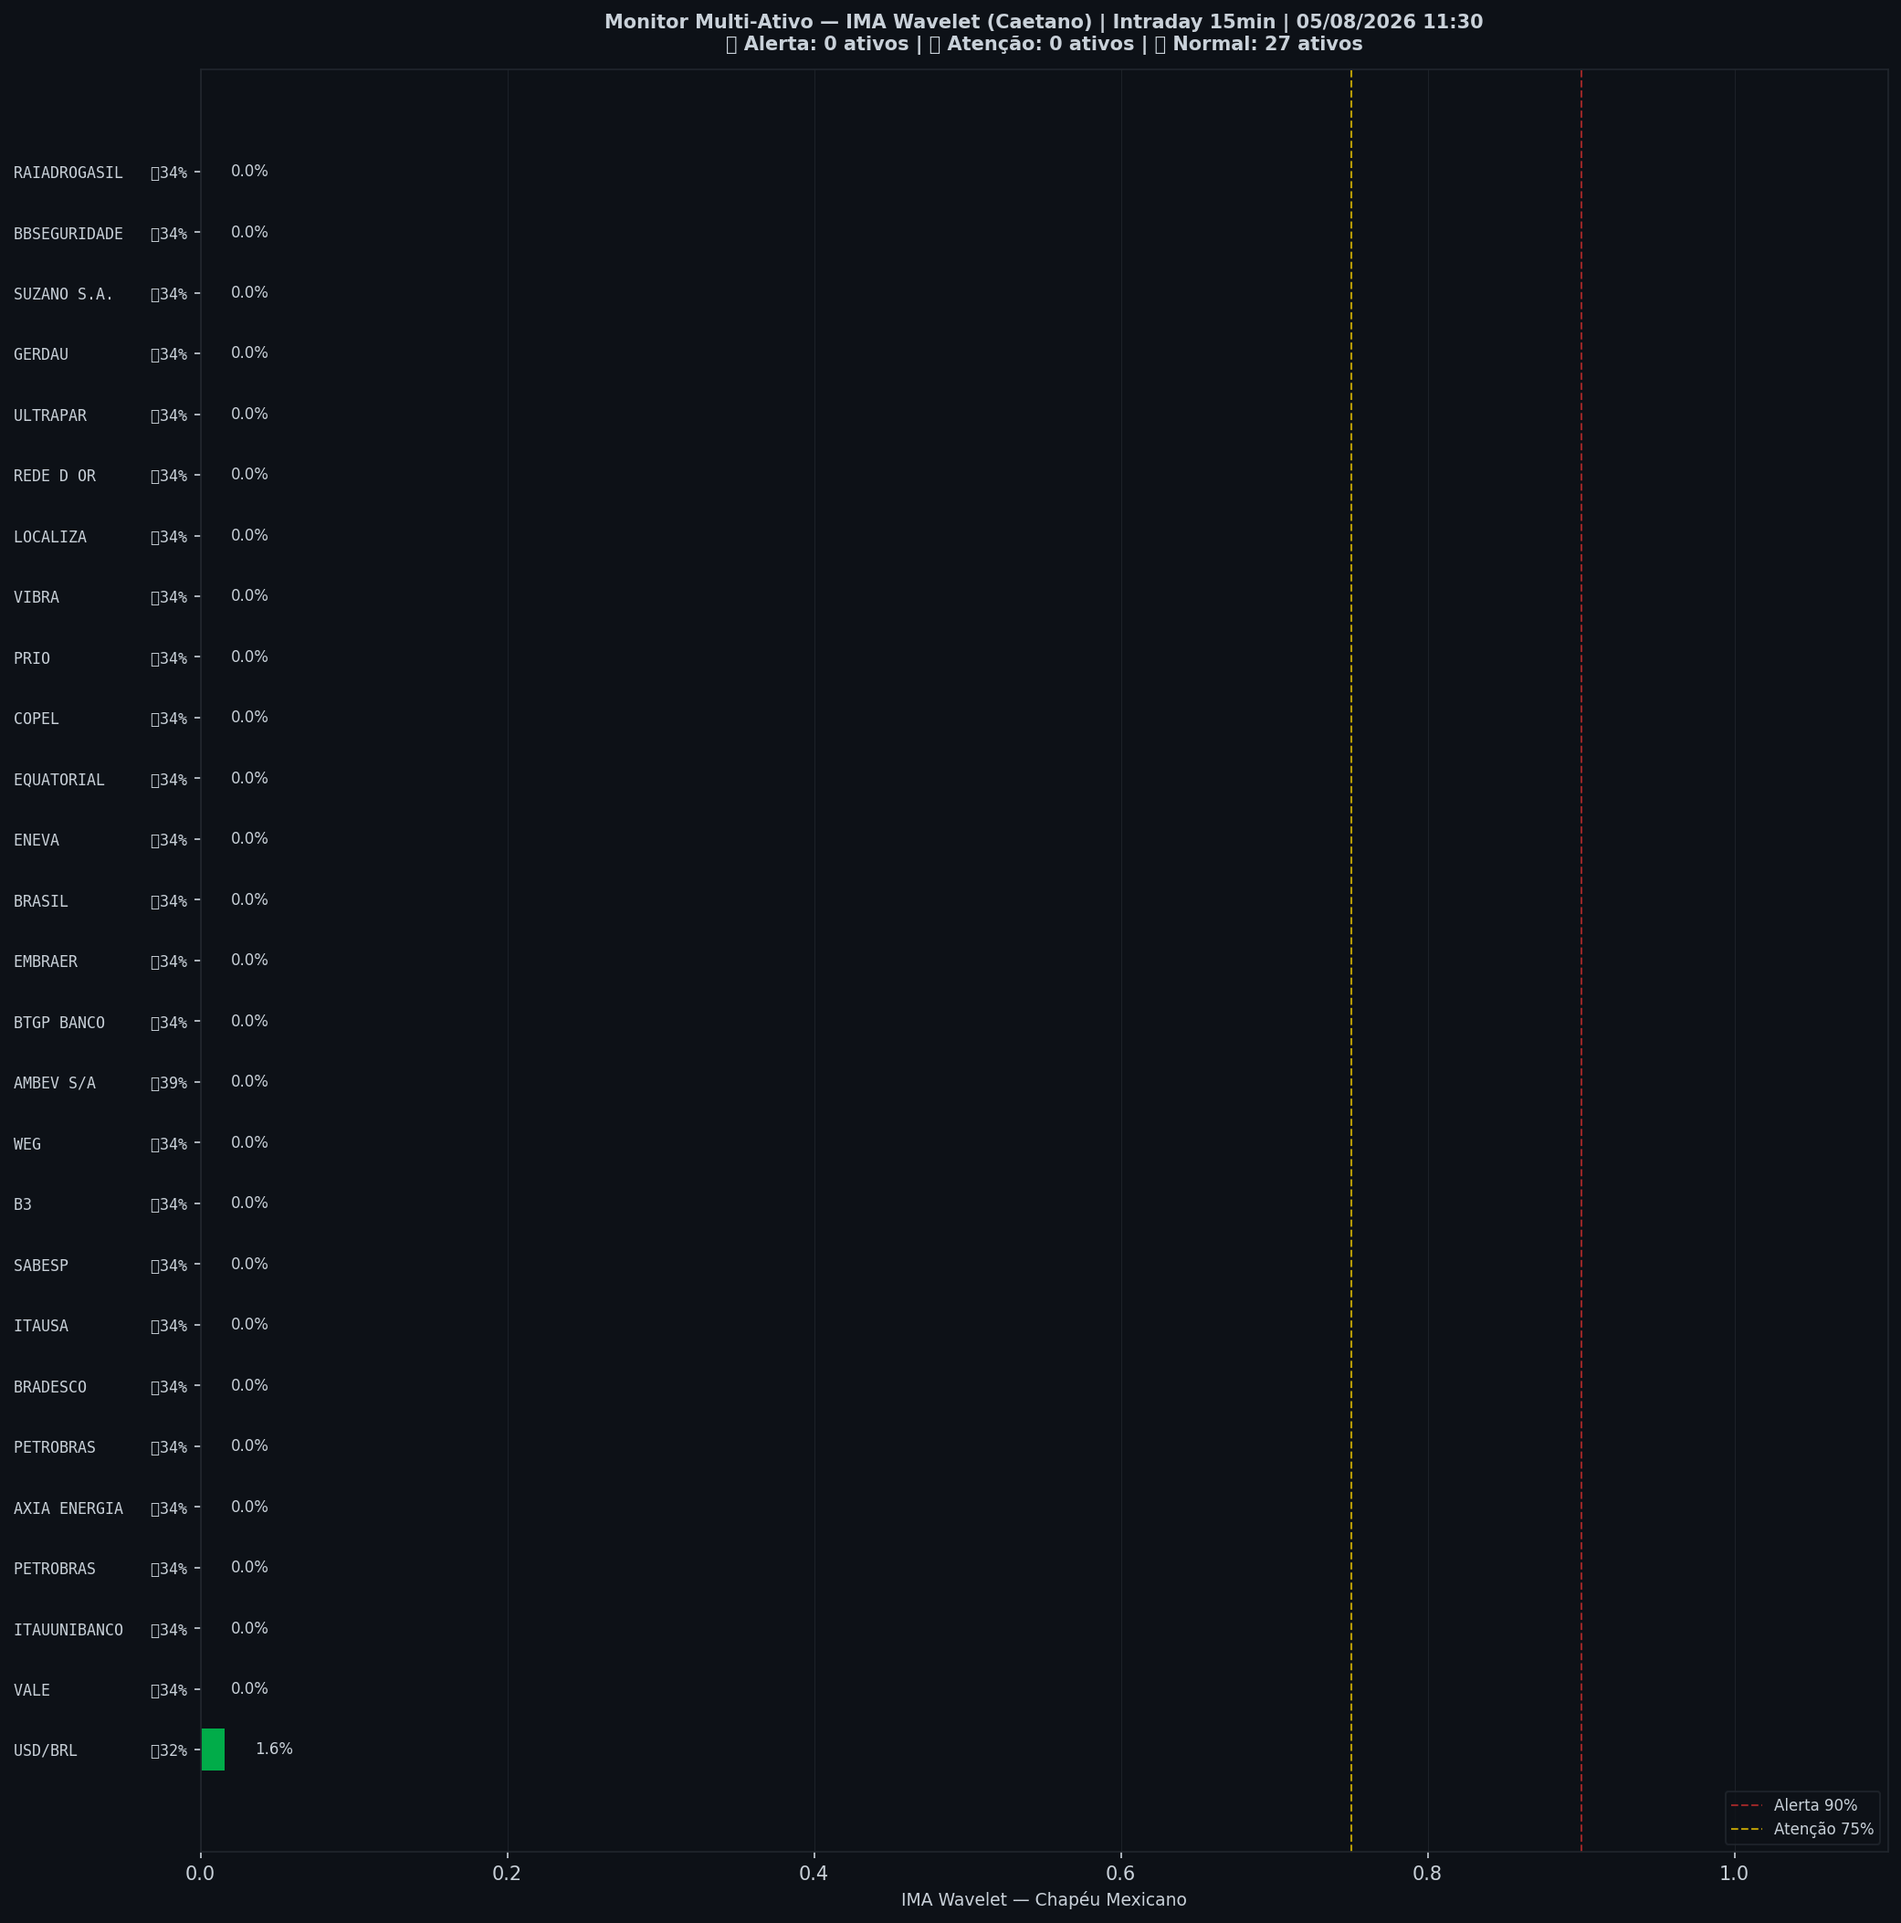
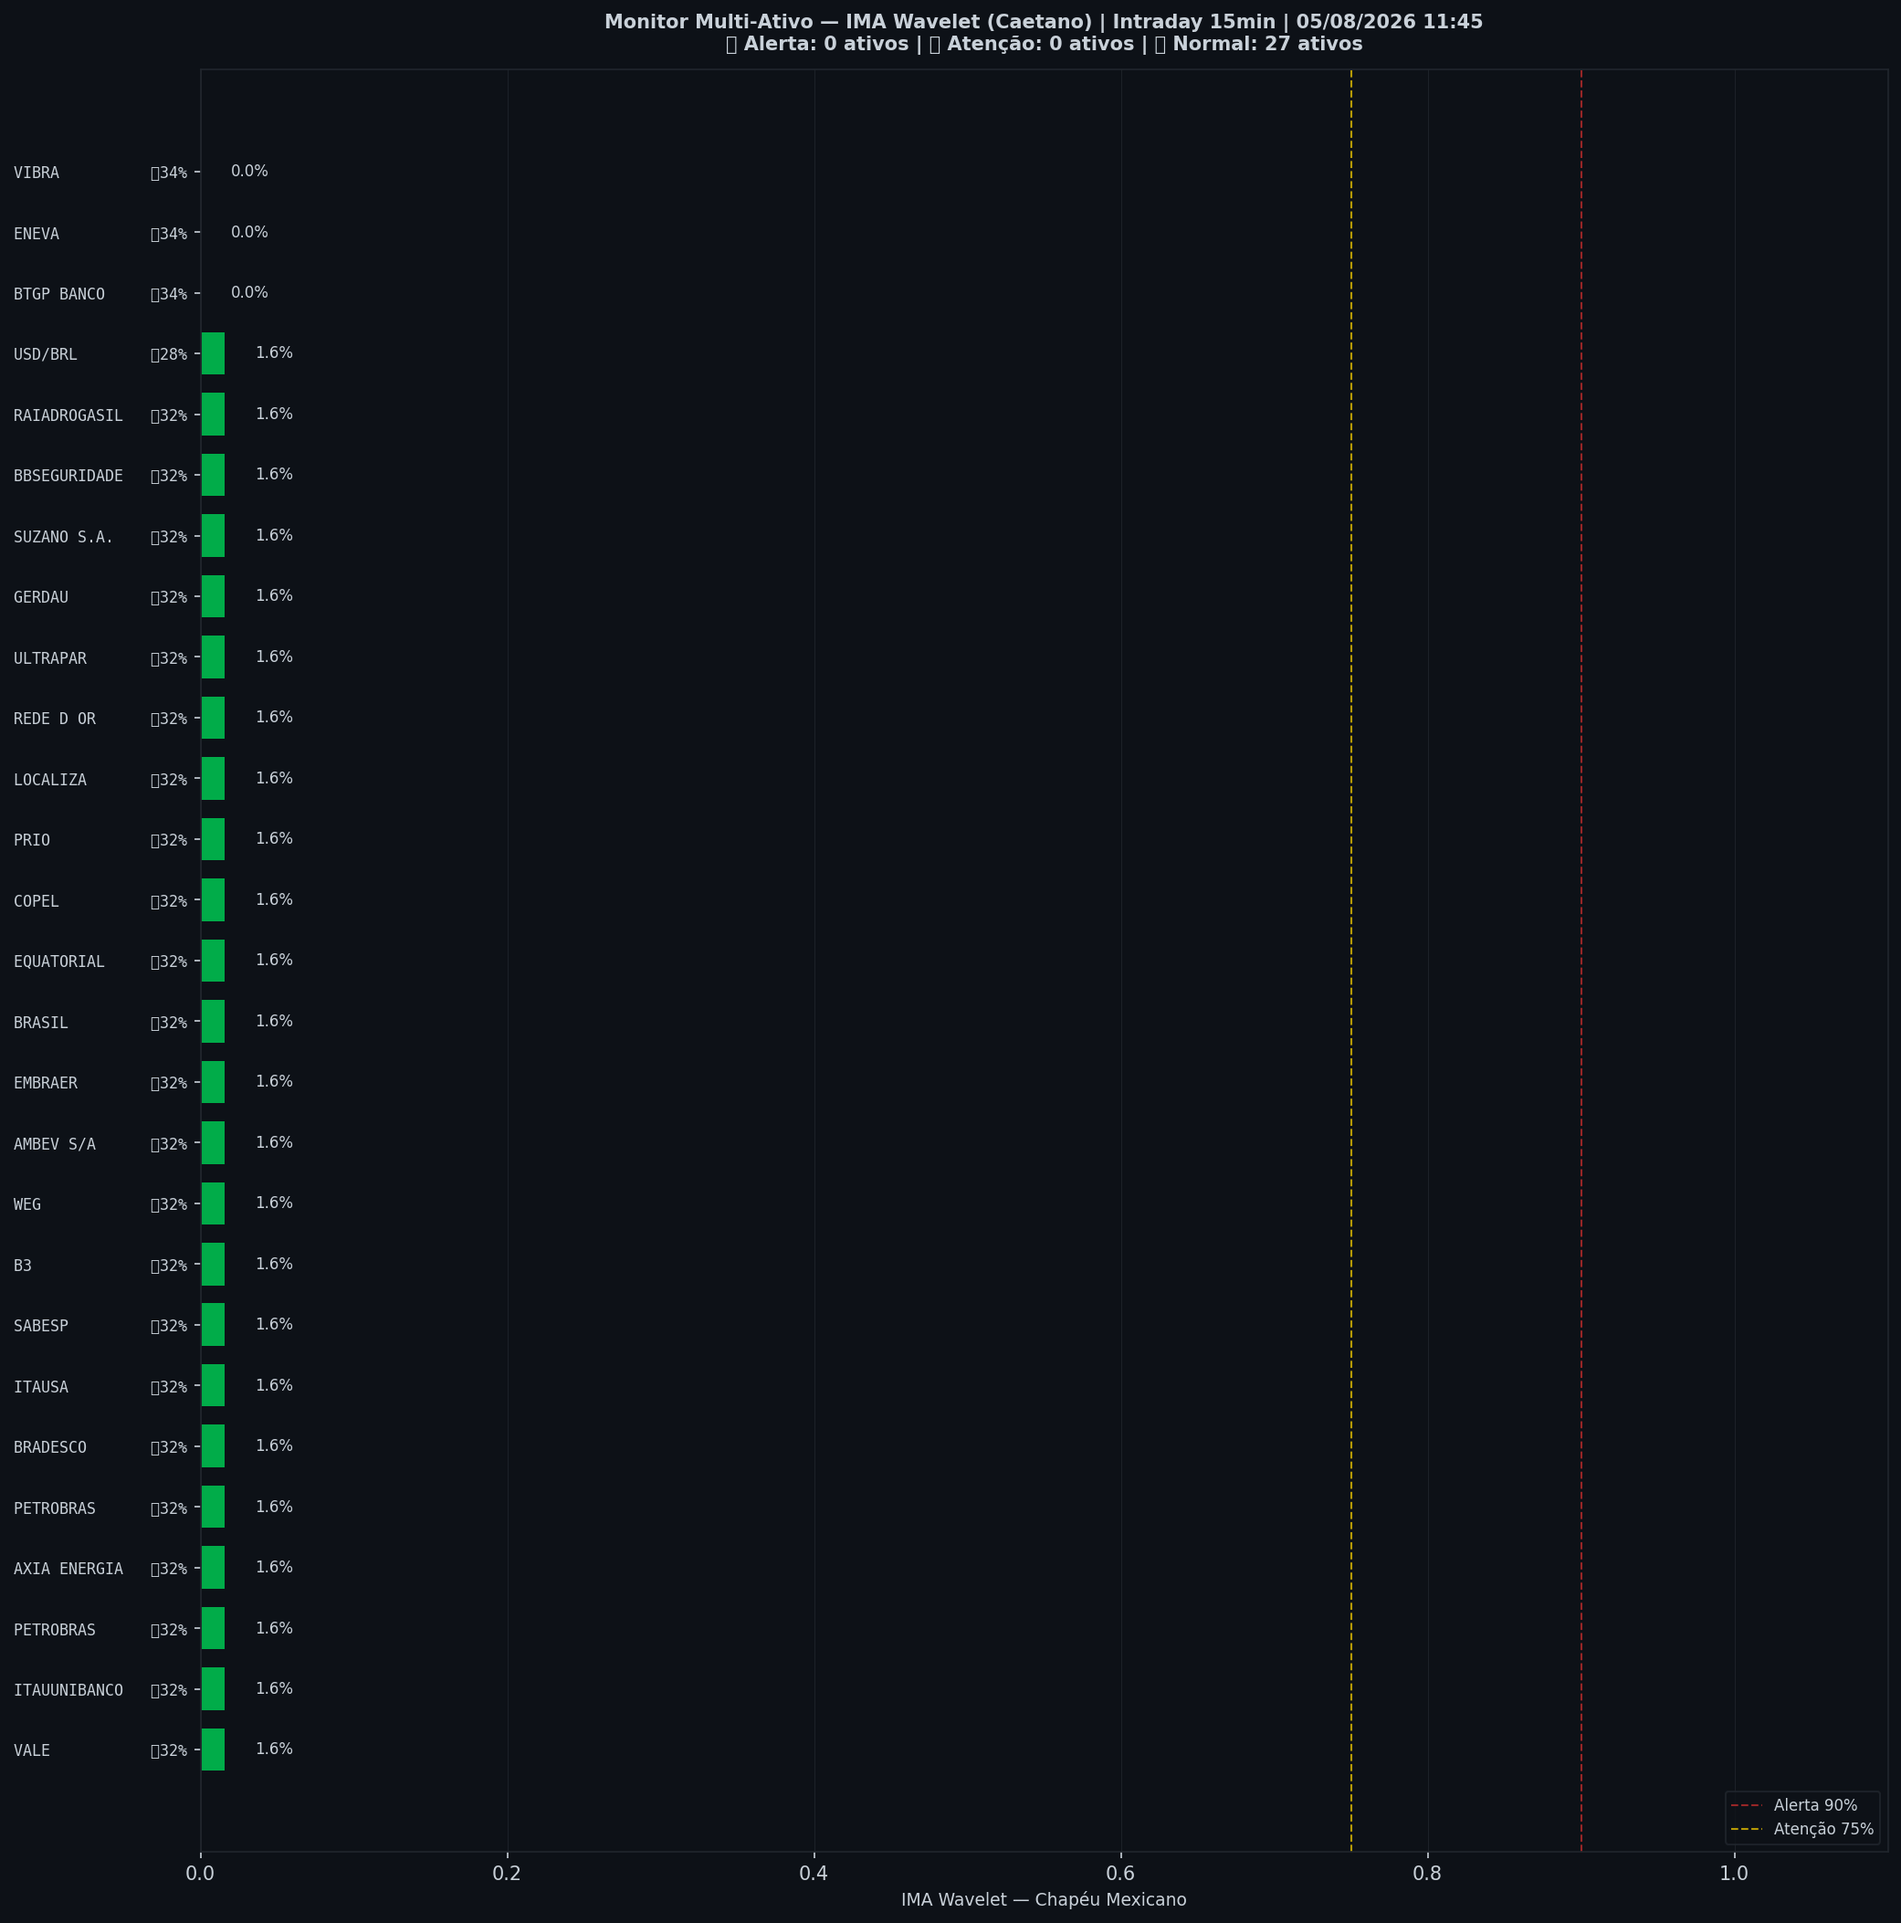
🤖 Auto: Sinal 05/08/2026 11:45

Changed region(s): [[0.0937, 0.1543, 0.1249, 0.8951], [0.0312, 0.8333, 0.0624, 0.8642]]

diff --git a/content/intraday/2026-08-05.md b/content/intraday/2026-08-05.md
@@ -1,20 +1,20 @@
 ---
-title: "🟢 Intraday 05/08/2026 10:45 BRT — VERDE"
+title: "🟢 Intraday 05/08/2026 11:00 BRT — VERDE"
 date: 2026-08-05
 tags: [intraday]
 ---
 
-> [!success] 🟢 **VERDE** — Risco 11% · ▲ +5 p.p. vs leitura anterior
-> `██░░░░░░░░░░░░░░░░░░`
+> [!success] 🟢 **VERDE** — Risco 30% · ▲ +19 p.p. vs leitura anterior
+> `██████░░░░░░░░░░░░░░`
 > Mercado sem sinais relevantes de estresse.
 
 
 | Indicador | Valor |
 |---|---|
-| 🔴 ζ Crash — severidade da queda em curso | **11%** |
-| 🔵 ζ Entrada — estrutura de fundo | 1% |
+| 🔴 ζ Crash — severidade da queda em curso | **30%** |
+| 🔵 ζ Entrada — estrutura de fundo | 0% |
 | 🫧 LPPL DS-Confidence | 0% |
-| 📊 Ibovespa | 179.351 pts |
+| 📊 Ibovespa | 180.058 pts |
 
 ![Gráfico do sinal](../graficos/sinal_intraday.png)
 
@@ -22,6 +22,7 @@ tags: [intraday]
 
 | Data | Zona | Risco | IMA Crash | Entrada | LPPL |
 |---|---|---|---|---|---|
+| 2026-08-05 11:00 | 🟢 VERDE | **30%** | 30% | 0% | 0% |
 | 2026-08-05 10:45 | 🟢 VERDE | **11%** | 11% | 1% | 0% |
 | 2026-08-05 10:30 | 🟢 VERDE | **6%** | 6% | 2% | 0% |
 | 2026-08-05 10:15 | 🟢 VERDE | **4%** | 4% | 7% | 0% |
@@ -51,7 +52,6 @@ tags: [intraday]
 | 2026-08-04 11:15 | 🟡 AMARELO | **66%** | 66% | 1% | 0% |
 | 2026-08-04 11:00 | 🟡 AMARELO | **64%** | 64% | 0% | 0% |
 | 2026-08-04 10:45 | 🟡 AMARELO | **64%** | 64% | 0% | 0% |
-| 2026-08-04 10:30 | 🟢 VERDE | **59%** | 59% | 1% | 0% |
 
 ## Monitor Multi-Ativo
 
@@ -59,37 +59,37 @@ tags: [intraday]
 
 | Zona | Ativo | Setor | IMA Crash | IMA Entrada |
 |---|---|---|---|---|
-| 🟢 | **USD/BRL** | Câmbio | 1.6% | 32.0% |
-| 🟢 | **VALE** | Mineração | 0.0% | 33.6% |
-| 🟢 | **ITAUUNIBANCO** | Financeiro | 0.0% | 33.6% |
-| 🟢 | **PETROBRAS** | Petróleo | 0.0% | 33.6% |
-| 🟢 | **AXIA ENERGIA** | Energia | 0.0% | 33.6% |
-| 🟢 | **PETROBRAS** | Petróleo | 0.0% | 33.6% |
-| 🟢 | **BRADESCO** | Financeiro | 0.0% | 33.6% |
-| 🟢 | **ITAUSA** | Financeiro | 0.0% | 33.6% |
-| 🟢 | **SABESP** | Saneamento | 0.0% | 33.6% |
-| 🟢 | **B3** | Financeiro | 0.0% | 33.6% |
-| 🟢 | **WEG** | Industrial | 0.0% | 33.6% |
-| 🟢 | **AMBEV S/A** | Consumo | 0.0% | 39.1% |
+| 🟢 | **VALE** | Mineração | 1.6% | 32.0% |
+| 🟢 | **ITAUUNIBANCO** | Financeiro | 1.6% | 32.0% |
+| 🟢 | **PETROBRAS** | Petróleo | 1.6% | 32.0% |
+| 🟢 | **AXIA ENERGIA** | Energia | 1.6% | 32.0% |
+| 🟢 | **PETROBRAS** | Petróleo | 1.6% | 32.0% |
+| 🟢 | **BRADESCO** | Financeiro | 1.6% | 32.0% |
+| 🟢 | **ITAUSA** | Financeiro | 1.6% | 32.0% |
+| 🟢 | **SABESP** | Saneamento | 1.6% | 32.0% |
+| 🟢 | **B3** | Financeiro | 1.6% | 32.0% |
+| 🟢 | **WEG** | Industrial | 1.6% | 32.0% |
+| 🟢 | **AMBEV S/A** | Consumo | 1.6% | 32.0% |
+| 🟢 | **EMBRAER** | Outros | 1.6% | 32.0% |
+| 🟢 | **BRASIL** | Financeiro | 1.6% | 32.0% |
+| 🟢 | **EQUATORIAL** | Energia | 1.6% | 32.0% |
+| 🟢 | **COPEL** | Energia | 1.6% | 32.0% |
+| 🟢 | **PRIO** | Petróleo | 1.6% | 32.0% |
+| 🟢 | **LOCALIZA** | Aluguel | 1.6% | 32.0% |
+| 🟢 | **REDE D OR** | Saúde | 1.6% | 32.0% |
+| 🟢 | **ULTRAPAR** | Outros | 1.6% | 32.0% |
+| 🟢 | **GERDAU** | Siderurgia | 1.6% | 32.0% |
+| 🟢 | **SUZANO S.A.** | Papel/Celulose | 1.6% | 32.0% |
+| 🟢 | **BBSEGURIDADE** | Financeiro | 1.6% | 32.0% |
+| 🟢 | **RAIADROGASIL** | Outros | 1.6% | 32.0% |
+| 🟢 | **USD/BRL** | Câmbio | 1.6% | 28.1% |
 | 🟢 | **BTGP BANCO** | Financeiro | 0.0% | 33.6% |
-| 🟢 | **EMBRAER** | Outros | 0.0% | 33.6% |
-| 🟢 | **BRASIL** | Financeiro | 0.0% | 33.6% |
 | 🟢 | **ENEVA** | Energia | 0.0% | 33.6% |
-| 🟢 | **EQUATORIAL** | Energia | 0.0% | 33.6% |
-| 🟢 | **COPEL** | Energia | 0.0% | 33.6% |
-| 🟢 | **PRIO** | Petróleo | 0.0% | 33.6% |
 | 🟢 | **VIBRA** | Energia | 0.0% | 33.6% |
-| 🟢 | **LOCALIZA** | Aluguel | 0.0% | 33.6% |
-| 🟢 | **REDE D OR** | Saúde | 0.0% | 33.6% |
-| 🟢 | **ULTRAPAR** | Outros | 0.0% | 33.6% |
-| 🟢 | **GERDAU** | Siderurgia | 0.0% | 33.6% |
-| 🟢 | **SUZANO S.A.** | Papel/Celulose | 0.0% | 33.6% |
-| 🟢 | **BBSEGURIDADE** | Financeiro | 0.0% | 33.6% |
-| 🟢 | **RAIADROGASIL** | Outros | 0.0% | 33.6% |
 
 ![Monitor multi-ativo](../graficos/multi_intraday.png)
 
-*Página atualizada em 05/08/2026 11:30 BRT (leitura da barra de 2026-08-05 10:45 BRT).*
+*Página atualizada em 05/08/2026 11:45 BRT (leitura da barra de 2026-08-05 11:00 BRT).*
 
 > [!info]- Como interpretar (clique para expandir)
 > - **ζ Crash**: fração dos coeficientes wavelet acima do corte (Caetano & Yoneyama 2009). Escala absoluta: ζ=0,90 = 90% dos coeficientes anômalos — historicamente, quedas com ζ≥0,90 foram mais fundas e mais longas. **Mede a severidade do movimento em curso, não prevê o início da queda.**

diff --git a/content/index.md b/content/index.md
@@ -8,19 +8,19 @@ tags: [home]
 
 Monitoramento diário e intraday do Ibovespa — **IMA Wavelet** (Prof. Marco Antonio Leonel Caetano, ITA/INSPER) + **LPPL DS-Confidence** (Prof. Didier Sornette, ETH-Zurich).
 
-*Última atualização: 05/08/2026 11:30 BRT · ^BVSP · Intraday 15min · v4*
+*Última atualização: 05/08/2026 11:45 BRT · ^BVSP · Intraday 15min · v4*
 
-> [!success] 🟢 **VERDE** — Risco 11% · ▲ +5 p.p. vs leitura anterior
-> `██░░░░░░░░░░░░░░░░░░`
+> [!success] 🟢 **VERDE** — Risco 30% · ▲ +19 p.p. vs leitura anterior
+> `██████░░░░░░░░░░░░░░`
 > Mercado sem sinais relevantes de estresse.
 
 
 | Indicador | Valor |
 |---|---|
-| 🔴 ζ Crash — severidade da queda em curso | **11%** |
-| 🔵 ζ Entrada — estrutura de fundo | 1% |
+| 🔴 ζ Crash — severidade da queda em curso | **30%** |
+| 🔵 ζ Entrada — estrutura de fundo | 0% |
 | 🫧 LPPL DS-Confidence | 0% |
-| 📊 Ibovespa | 179.351 pts |
+| 📊 Ibovespa | 180.058 pts |
 
 **Multi-ativo:** 0% em tensão (0🔴 0🟡 de 27 ativos)
 
@@ -32,7 +32,7 @@ Monitoramento diário e intraday do Ibovespa — **IMA Wavelet** (Prof. Marco An
 
 | Data | Zona | Risco | IMA | LPPL |
 |---|---|---|---|---|
-| [05 Aug 2026](diario/2026-08-05) | 🟢 VERDE | **11%** | 11% | 0% |
+| [05 Aug 2026](diario/2026-08-05) | 🟢 VERDE | **30%** | 30% | 0% |
 | [04 Aug 2026](diario/2026-08-04) | 🟢 VERDE | **0%** | 0% | 0% |
 
 ## Navegação

diff --git a/content/historico.md b/content/historico.md
@@ -7,6 +7,7 @@ tags: [historico]
 
 | Data | Modo | Zona | Risco | IMA | LPPL |
 |---|---|---|---|---|---|
+| 2026-08-05 11:00 | intraday | 🟢 VERDE | 30% | 30% | 0% |
 | 2026-08-05 10:45 | intraday | 🟢 VERDE | 11% | 11% | 0% |
 | 2026-08-05 10:30 | intraday | 🟢 VERDE | 6% | 6% | 0% |
 | 2026-08-05 10:15 | intraday | 🟢 VERDE | 4% | 4% | 0% |
